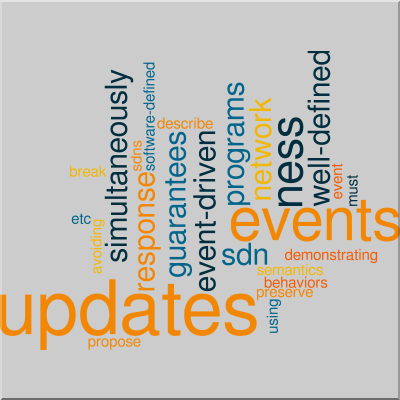
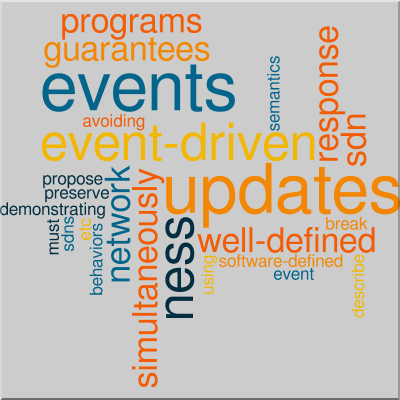
fix main Makefile to work with Git; paper title fix

Changed region(s): [[0.0, 0.03, 1.0, 0.99]]

diff --git a/papers/events-pldi16.html b/papers/events-pldi16.html
@@ -10,7 +10,7 @@
       <title>
          	PLDI 2016
          :
-         	Efficient Synthesis of Network Updates  |  CUPLV
+         	Event-Driven Network Programming  |  CUPLV
       </title><script xmlns="" type="text/javascript" src="lib/sh_main.min.js"></script><script xmlns="" type="text/javascript" src="lib/sh_bib.js"></script><link xmlns="" href="lib/sh_style.css" rel="stylesheet" type="text/css"><script xmlns="" type="text/javascript">
 	  (function(w) { var p = w.onload;
 	     w.onload = function() {
@@ -47,7 +47,7 @@
             </ul><img xmlns="" src="pics/banner.jpg" height="50"></div>
          <div id="content">
             <div id="header">
-               <div xmlns="" class="small-title">Efficient Synthesis of Network Updates</div>
+               <div xmlns="" class="small-title">Event-Driven Network Programming</div>
                <div xmlns="" class="subtitle">
                   	<a href="http://conf.researchr.org/home/pldi-2016/">PLDI 2016</a>
                   
@@ -62,7 +62,7 @@
                      <li><a href="papers/events-pldi16.html">detail</a></li>
                      <li><a href="papers/events-pldi16.pdf" onClick="_gaq.push(['_trackPageview', '/papers/events-pldi16.pdf']);">pdf</a></li>
                   </ul>
-                  <div class="item-header hanging">Efficient Synthesis of Network Updates</div>
+                  <div class="item-header hanging">Event-Driven Network Programming</div>
                   <div class="hanging"><a href="http://www.jrmcclurg.com/">Jedidiah McClurg</a>, <a href="http://www.cs.cornell.edu/~hojjat/">Hossein Hojjat</a>, <a href="http://www.cs.cornell.edu/~jnfoster/">Nate Foster</a>,  and <a href="http://ecee.colorado.edu/pavol/">Pavol Černý</a></div>
                   <div class="hanging">
                      	<a href="http://conf.researchr.org/home/pldi-2016/">PLDI 2016</a>:
@@ -89,7 +89,7 @@
 @string{PLDI = "ACM SIGPLAN Conference on Programming Language Design and Implementation (PLDI)"}
 @inproceedings{events-pldi16,
   author = {Jedidiah McClurg and Hossein Hojjat and Nate Foster and Pavol Černý},
-  title = {Efficient Synthesis of Network Updates},
+  title = {Event-Driven Network Programming},
   booktitle = PLDI,
   year = {2016},
 }

diff --git a/index.html b/index.html
@@ -451,7 +451,7 @@
                      <li><a href="papers/events-pldi16.html">detail</a></li>
                      <li><a href="papers/events-pldi16.pdf" onClick="_gaq.push(['_trackPageview', '/papers/events-pldi16.pdf']);">pdf</a></li>
                   </ul>
-                  <div class="item-header hanging">Efficient Synthesis of Network Updates</div>
+                  <div class="item-header hanging">Event-Driven Network Programming</div>
                   <div class="hanging"><a href="http://www.jrmcclurg.com/">Jedidiah McClurg</a>, <a href="http://www.cs.cornell.edu/~hojjat/">Hossein Hojjat</a>, <a href="http://www.cs.cornell.edu/~jnfoster/">Nate Foster</a>,  and <a href="http://ecee.colorado.edu/pavol/">Pavol Černý</a></div>
                   <div class="hanging">
                      	<a href="http://conf.researchr.org/home/pldi-2016/">PLDI 2016</a>:

diff --git a/papers.html b/papers.html
@@ -47,7 +47,7 @@
                      <li><a href="papers/events-pldi16.html">detail</a></li>
                      <li><a href="papers/events-pldi16.pdf" onClick="_gaq.push(['_trackPageview', '/papers/events-pldi16.pdf']);">pdf</a></li>
                   </ul>
-                  <div class="item-header hanging">Efficient Synthesis of Network Updates</div>
+                  <div class="item-header hanging">Event-Driven Network Programming</div>
                   <div class="hanging"><a href="http://www.jrmcclurg.com/">Jedidiah McClurg</a>, <a href="http://www.cs.cornell.edu/~hojjat/">Hossein Hojjat</a>, <a href="http://www.cs.cornell.edu/~jnfoster/">Nate Foster</a>,  and <a href="http://ecee.colorado.edu/pavol/">Pavol Černý</a></div>
                   <div class="hanging">
                      	<a href="http://conf.researchr.org/home/pldi-2016/">PLDI 2016</a>:
